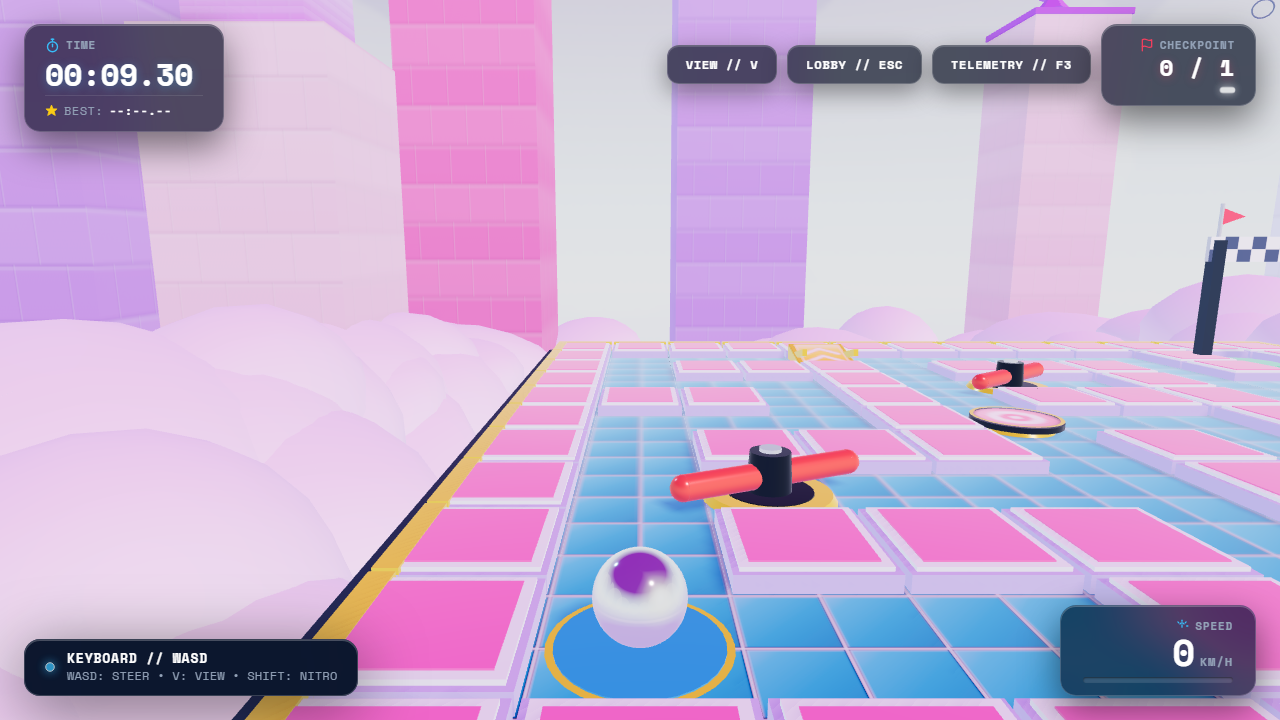
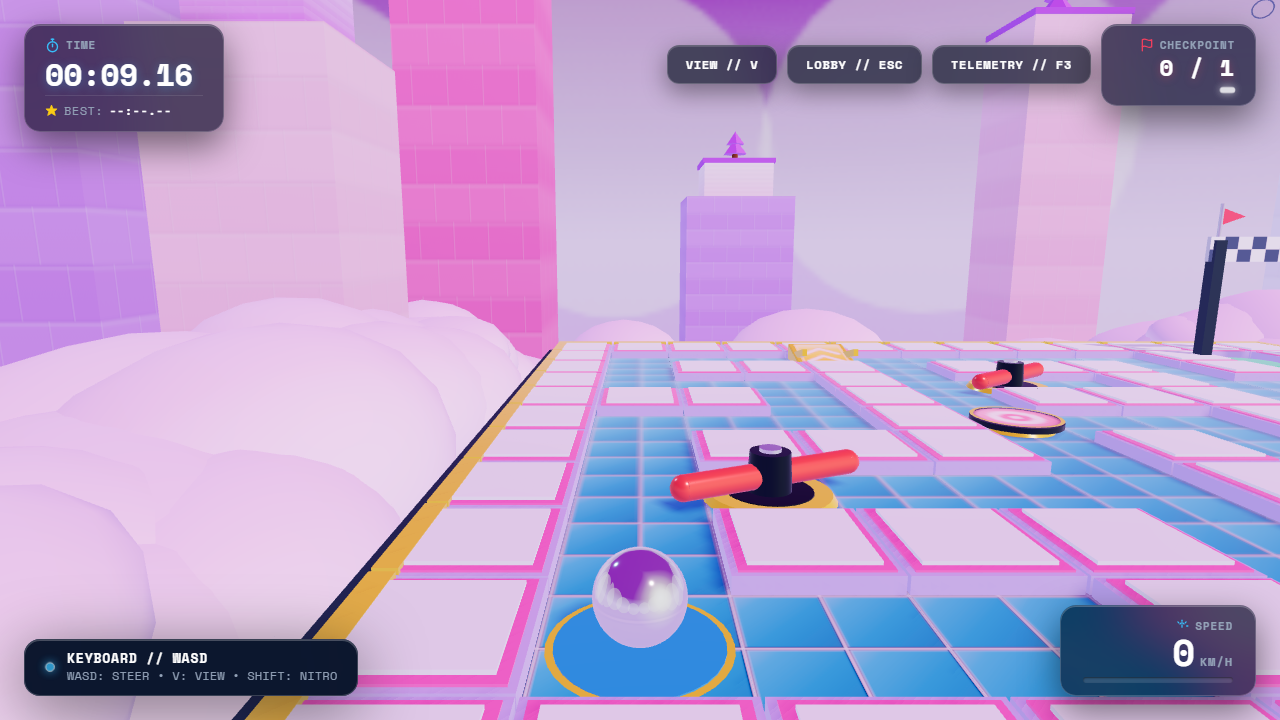
fix(visual): refine beveled curb layering, dynamic sky gradient, pillar disposal and true action views

diff --git a/game/src/world/Environment.ts b/game/src/world/Environment.ts
@@ -26,6 +26,8 @@ export class SkyEnvironment {
   private renderer: THREE.WebGLRenderer;
   private currentSkyTexture: THREE.Texture | null = null;
   private currentEnvTexture: THREE.Texture | null = null;
+  private pillarMaterials: THREE.Material[] = [];
+  private pillarTextures: THREE.Texture[] = [];
 
   constructor(scene: THREE.Scene, renderer: THREE.WebGLRenderer) {
     this.scene = scene;
@@ -281,34 +283,35 @@ export class SkyEnvironment {
    * and glowing window strips for night themes.
    */
   public rebuildPillars(theme: LevelTheme, isNight: boolean = false): void {
-    // 1. Clear and dispose old pillar hierarchy to prevent VRAM memory leaks
+    // 1. Clear and dispose old pillar textures and materials cleanly to prevent VRAM memory leaks
+    for (const t of this.pillarTextures) {
+      t.dispose();
+    }
+    this.pillarTextures = [];
+
+    for (const m of this.pillarMaterials) {
+      m.dispose();
+    }
+    this.pillarMaterials = [];
+
     while (this.pillarsGroup.children.length > 0) {
       const child = this.pillarsGroup.children[0];
       this.pillarsGroup.remove(child);
       child.traverse((node: any) => {
         if (node.geometry) node.geometry.dispose();
-        if (node.material) {
-          if (Array.isArray(node.material)) {
-            node.material.forEach((m: any) => {
-              if (m.map) m.map.dispose();
-              if (m.emissiveMap) m.emissiveMap.dispose();
-              m.dispose();
-            });
-          } else {
-            if (node.material.map) node.material.map.dispose();
-            if (node.material.emissiveMap) node.material.emissiveMap.dispose();
-            node.material.dispose();
-          }
-        }
       });
     }
 
     // 2. Prepare themed materials with procedural stone textures and window strips
     const palette = theme.pillarPalette || [0xfbcfe8, 0xbae6fd, 0xa7f3d0, 0xfef08a, 0xe2e8f0, 0xc7d2fe];
     const windowTex = isNight ? TextureGenerator.createPillarWindowTexture() : null;
+    if (windowTex) {
+      this.pillarTextures.push(windowTex);
+    }
 
     const pillarMatPool = palette.map((colHex) => {
       const stoneTex = TextureGenerator.createPillarTexture(colHex, isNight);
+      this.pillarTextures.push(stoneTex);
       const matParams: THREE.MeshStandardMaterialParameters = {
         map: stoneTex,
         roughness: isNight ? 0.45 : 0.6,
@@ -319,7 +322,9 @@ export class SkyEnvironment {
         matParams.emissiveMap = windowTex;
         matParams.emissiveIntensity = 1.6;
       }
-      return new THREE.MeshStandardMaterial(matParams);
+      const mat = new THREE.MeshStandardMaterial(matParams);
+      this.pillarMaterials.push(mat);
+      return mat;
     });
 
     const trunkMat = new THREE.MeshStandardMaterial({ color: 0x78350f, roughness: 0.8 });
@@ -329,6 +334,16 @@ export class SkyEnvironment {
     // Grass cap material for day themes
     const grassColor = theme.fogColor === 0xfecdd3 ? 0xca8a04 : theme.fogColor === 0xe9d5ff ? 0xa855f7 : 0x22c55e;
     const grassMat = new THREE.MeshStandardMaterial({ color: grassColor, roughness: 0.7, metalness: 0.05 });
+    this.pillarMaterials.push(trunkMat, foliageMat, grassMat);
+
+    const mastMat = isNight ? new THREE.MeshStandardMaterial({ color: 0x475569, metalness: 0.8, roughness: 0.2 }) : null;
+    const beaconMat = isNight ? new THREE.MeshStandardMaterial({
+      color: 0x00f5ff,
+      emissive: 0x00f5ff,
+      emissiveIntensity: 2.2,
+    }) : null;
+    if (mastMat) this.pillarMaterials.push(mastMat);
+    if (beaconMat) this.pillarMaterials.push(beaconMat);
 
     // 3. Multi-tier architectural pillar definitions with varied widths, depths, and heights
     const pillarDefs = [
@@ -340,7 +355,7 @@ export class SkyEnvironment {
       { x: 17, z: -32, w: 5.2, d: 5.2, h: 27, colorIdx: 0, hasTree: true, hasStep: false },
       { x: -30, z: -18, w: 7.5, d: 7.5, h: 32, colorIdx: 4, hasTree: true, hasStep: true },
       { x: 30, z: -4, w: 5.6, d: 5.6, h: 24, colorIdx: 1, hasTree: false, hasStep: false },
-      { x: 0, z: -42, w: 9.0, d: 9.0, h: 36, colorIdx: 4, hasTree: true, hasStep: true }, // Big stepped monolith behind finish
+      { x: 0, z: -42, w: 7.5, d: 7.5, h: 18, colorIdx: 4, hasTree: true, hasStep: true }, // Stepped monolith behind finish (lowered to leave sky clear)
       { x: -9, z: 24, w: 4.6, d: 4.6, h: 16, colorIdx: 5, hasTree: true, hasStep: false },
       { x: 13, z: 26, w: 4.2, d: 4.2, h: 15, colorIdx: 3, hasTree: false, hasStep: false },
       // Distant monoliths softly faded by fog
@@ -385,7 +400,7 @@ export class SkyEnvironment {
         // Low-poly Pine Tree on top
         if (p.hasTree) {
           const treeGroup = new THREE.Group();
-          treeGroup.position.set(p.x + (Math.random() - 0.5) * (p.w * 0.25), topY, p.z + (Math.random() - 0.5) * (p.d * 0.25));
+          treeGroup.position.set(p.x, topY, p.z);
 
           // Trunk
           const trunkGeo = new THREE.CylinderGeometry(0.2, 0.25, 0.8, 6);
@@ -409,19 +424,13 @@ export class SkyEnvironment {
         }
       } else {
         // Night theme: antenna mast & beacon on tall monoliths
-        if (p.hasTree || p.hasStep) {
+        if ((p.hasTree || p.hasStep) && mastMat && beaconMat) {
           const mastGeo = new THREE.CylinderGeometry(0.06, 0.08, 3.2, 8);
-          const mastMat = new THREE.MeshStandardMaterial({ color: 0x475569, metalness: 0.8, roughness: 0.2 });
           const mast = new THREE.Mesh(mastGeo, mastMat);
           mast.position.set(p.x, topY + 1.6, p.z);
           this.pillarsGroup.add(mast);
 
           const beaconGeo = new THREE.SphereGeometry(0.2, 12, 12);
-          const beaconMat = new THREE.MeshStandardMaterial({
-            color: 0x00f5ff,
-            emissive: 0x00f5ff,
-            emissiveIntensity: 2.2,
-          });
           const beacon = new THREE.Mesh(beaconGeo, beaconMat);
           beacon.position.set(p.x, topY + 3.2, p.z);
           this.pillarsGroup.add(beacon);
@@ -514,7 +523,7 @@ export class SkyEnvironment {
 
     this.hemiLight.color.setHex(theme.hemiSky);
     this.hemiLight.groundColor.setHex(theme.hemiGround);
-    this.hemiLight.intensity = isNight ? 0.6 : 0.85;
+    this.hemiLight.intensity = isNight ? 0.6 : 0.65;
 
     if (isNight) {
       this.rimLight.color.setHex(0x38bdf8);

diff --git a/game/src/world/Board.ts b/game/src/world/Board.ts
@@ -13,6 +13,7 @@ export class Board {
   private blueTileMat!: THREE.MeshStandardMaterial;
   private yellowCurbMat!: THREE.MeshStandardMaterial;
   private levelMaterials: THREE.Material[] = [];
+  private levelGeometries: THREE.BufferGeometry[] = [];
 
   constructor() {
     this.group = new THREE.Group();
@@ -39,7 +40,7 @@ export class Board {
 
   private disposeHierarchy(obj: THREE.Object3D): void {
     obj.traverse((node: any) => {
-      if (node.geometry) {
+      if (node.geometry && !this.levelGeometries.includes(node.geometry)) {
         node.geometry.dispose();
       }
       if (node.material) {
@@ -75,6 +76,10 @@ export class Board {
       m.dispose();
     }
     this.levelMaterials = [];
+    for (const g of this.levelGeometries) {
+      g.dispose();
+    }
+    this.levelGeometries = [];
     this.spinnerMeshes = [];
     this.goldenRings = [];
     this.bouncerGroups = [];
@@ -206,8 +211,15 @@ export class Board {
     this.levelMaterials.push(wallSideMat, wallTopMat, wallStripeMat);
 
     const baseH = 0.16;
-    const capH = 0.04;
-    const stripeH = 0.015;
+    const stripeShelfH = 0.02;
+    const topCapH = 0.035;
+    // Total visual curb height = 0.16 + 0.02 + 0.035 = 0.215m (43% of 0.50m collider)
+
+    // Reusable shared geometries for low curb barriers
+    const wallBaseGeo = new THREE.BoxGeometry(cellSize * 0.98, baseH, cellSize * 0.98);
+    const wallStripeGeo = new THREE.BoxGeometry(cellSize * 0.90, stripeShelfH, cellSize * 0.90);
+    const wallCapGeo = new THREE.BoxGeometry(cellSize * 0.78, topCapH, cellSize * 0.78);
+    this.levelGeometries.push(wallBaseGeo, wallStripeGeo, wallCapGeo);
 
     let spinnerCount = 0;
 
@@ -235,28 +247,26 @@ export class Board {
           const wallGroup = new THREE.Group();
           wallGroup.position.set(cx, 0, cz);
 
-          // Lower curb body
-          const baseGeo = new THREE.BoxGeometry(cellSize * 0.96, baseH, cellSize * 0.96);
-          const wallBase = new THREE.Mesh(baseGeo, wallSideMat);
+          // Lower curb body (sides)
+          const wallBase = new THREE.Mesh(wallBaseGeo, wallSideMat);
           wallBase.position.y = baseH / 2;
           wallBase.castShadow = true;
           wallBase.receiveShadow = true;
           wallGroup.add(wallBase);
 
-          // Slightly beveled upper cap (lighter than sides for top-down maze readability)
-          const capGeo = new THREE.BoxGeometry(cellSize * 0.88, capH, cellSize * 0.88);
-          const wallCap = new THREE.Mesh(capGeo, wallTopMat);
-          wallCap.position.y = baseH + capH / 2;
+          // Beveled perimeter shelf / stripe (bright top stripe / neon edge in L4)
+          const wallStripe = new THREE.Mesh(wallStripeGeo, wallStripeMat);
+          wallStripe.position.y = baseH + stripeShelfH / 2;
+          wallStripe.castShadow = true;
+          wallStripe.receiveShadow = true;
+          wallGroup.add(wallStripe);
+
+          // Top cap face (lighter than sides for top-down maze readability)
+          const wallCap = new THREE.Mesh(wallCapGeo, wallTopMat);
+          wallCap.position.y = baseH + stripeShelfH + topCapH / 2;
           wallCap.castShadow = true;
           wallCap.receiveShadow = true;
           wallGroup.add(wallCap);
-
-          // Bright top stripe (emissive neon glow in L4)
-          const stripeGeo = new THREE.BoxGeometry(cellSize * 0.76, stripeH, cellSize * 0.76);
-          const wallStripe = new THREE.Mesh(stripeGeo, wallStripeMat);
-          wallStripe.position.y = baseH + capH + stripeH / 2;
-          wallStripe.castShadow = true;
-          wallGroup.add(wallStripe);
 
           this.group.add(wallGroup);
         } else if (cell === 'S') {

diff --git a/game/src/world/TextureGenerator.ts b/game/src/world/TextureGenerator.ts
@@ -33,23 +33,30 @@ export class TextureGenerator {
     }
     const { canvas, ctx } = c;
 
+    const cTop = new THREE.Color(topColor);
+    const cBottom = new THREE.Color(bottomColor);
+
     // 1. Sky Gradient from zenith (y=0) down through horizon (y=256) to nadir (y=512)
     // Smooth continuous gradient stops with low contrast near the horizon to eliminate banding in reflections
     const skyGrad = ctx.createLinearGradient(0, 0, 0, 512);
     if (isNight) {
-      skyGrad.addColorStop(0.0, topColor);
-      skyGrad.addColorStop(0.35, '#080e1a');
-      skyGrad.addColorStop(0.50, '#0f172a');
-      skyGrad.addColorStop(0.70, '#0b1322');
-      skyGrad.addColorStop(1.0, bottomColor);
+      skyGrad.addColorStop(0.0, cTop.getStyle());
+      skyGrad.addColorStop(0.38, cTop.getStyle());
+      skyGrad.addColorStop(0.46, cTop.clone().lerp(cBottom, 0.45).getStyle());
+      skyGrad.addColorStop(0.50, cBottom.getStyle());
+      skyGrad.addColorStop(0.54, cBottom.clone().lerp(cTop, 0.20).getStyle());
+      skyGrad.addColorStop(0.72, cBottom.getStyle());
+      skyGrad.addColorStop(1.0, cBottom.getStyle());
     } else {
-      skyGrad.addColorStop(0.0, topColor);
-      skyGrad.addColorStop(0.30, topColor);
-      // Soft, low-contrast transition at horizon (y=256, stop 0.50)
-      skyGrad.addColorStop(0.48, '#bfdbfe');
-      skyGrad.addColorStop(0.52, '#dbeafe');
-      skyGrad.addColorStop(0.75, bottomColor);
-      skyGrad.addColorStop(1.0, bottomColor);
+      // Zenith blue extends down to 0.38 so the camera's upper elevation (+22 deg) captures vivid sky color
+      skyGrad.addColorStop(0.0, cTop.getStyle());
+      skyGrad.addColorStop(0.38, cTop.getStyle());
+      // Smooth, soft transition into horizon haze (stop 0.50 = horizon y=256)
+      skyGrad.addColorStop(0.46, cTop.clone().lerp(cBottom, 0.40).getStyle());
+      skyGrad.addColorStop(0.50, cBottom.getStyle());
+      skyGrad.addColorStop(0.54, cBottom.clone().lerp(cTop, 0.15).getStyle());
+      skyGrad.addColorStop(0.72, cBottom.getStyle());
+      skyGrad.addColorStop(1.0, cBottom.getStyle());
     }
     ctx.fillStyle = skyGrad;
     ctx.fillRect(0, 0, 1024, 512);
@@ -449,15 +456,15 @@ export class TextureGenerator {
       ctx.fillRect(0, y, 256, bandHeight);
 
       // Horizontal mortar seam groove
-      ctx.strokeStyle = isNight ? 'rgba(0, 0, 0, 0.5)' : 'rgba(0, 0, 0, 0.16)';
-      ctx.lineWidth = 2;
+      ctx.strokeStyle = isNight ? 'rgba(0, 0, 0, 0.45)' : 'rgba(0, 0, 0, 0.09)';
+      ctx.lineWidth = 1.5;
       ctx.beginPath();
       ctx.moveTo(0, y);
       ctx.lineTo(256, y);
       ctx.stroke();
 
       // Sunlit edge highlight below groove
-      ctx.strokeStyle = isNight ? 'rgba(255, 255, 255, 0.05)' : 'rgba(255, 255, 255, 0.22)';
+      ctx.strokeStyle = isNight ? 'rgba(255, 255, 255, 0.05)' : 'rgba(255, 255, 255, 0.18)';
       ctx.lineWidth = 1;
       ctx.beginPath();
       ctx.moveTo(0, y + 2);
@@ -471,8 +478,8 @@ export class TextureGenerator {
       const rowIdx = y / bandHeight;
       const xOffset = (rowIdx % 2) * (blockWidth / 2);
       for (let x = xOffset; x < 256; x += blockWidth) {
-        ctx.strokeStyle = isNight ? 'rgba(0, 0, 0, 0.45)' : 'rgba(0, 0, 0, 0.14)';
-        ctx.lineWidth = 1.5;
+        ctx.strokeStyle = isNight ? 'rgba(0, 0, 0, 0.40)' : 'rgba(0, 0, 0, 0.08)';
+        ctx.lineWidth = 1.2;
         ctx.beginPath();
         ctx.moveTo(x, y);
         ctx.lineTo(x, y + bandHeight);

diff --git a/game/src/main.ts b/game/src/main.ts
@@ -24,21 +24,21 @@ export const GAME_FEEL_CONFIG = {
 
 class GameApp {
   // Three.js
-  private scene!: THREE.Scene;
-  private camera!: THREE.PerspectiveCamera;
-  private renderer!: THREE.WebGLRenderer;
-  private environment!: SkyEnvironment;
+  public scene!: THREE.Scene;
+  public camera!: THREE.PerspectiveCamera;
+  public renderer!: THREE.WebGLRenderer;
+  public environment!: SkyEnvironment;
 
   // Follow Camera (Bruno Simon Lerp Target Formula - Preallocated for zero per-frame garbage)
-  private cameraPosition = new THREE.Vector3();
-  private cameraTarget = new THREE.Vector3();
+  public cameraPosition = new THREE.Vector3();
+  public cameraTarget = new THREE.Vector3();
   private targetCamPos = new THREE.Vector3();
   private targetCamTarget = new THREE.Vector3();
 
   // Game Systems
-  private physics!: PhysicsWorld;
-  private board!: Board;
-  private marble!: Marble;
+  public physics!: PhysicsWorld;
+  public board!: Board;
+  public marble!: Marble;
   private effectsManager!: EffectsManager;
   private sounds!: SoundSynthesizer;
   private keyboard!: KeyboardController;
@@ -549,5 +549,7 @@ class GameApp {
 
 // Bootstrap application on page load
 window.addEventListener('DOMContentLoaded', () => {
-  new GameApp();
+  const app = new GameApp();
+  (window as any).game = app;
+  (window as any).gameApp = app;
 });

diff --git a/game/src/levels/LevelData.ts b/game/src/levels/LevelData.ts
@@ -142,7 +142,7 @@ export const LEVELS: LevelDef[] = [
       wallStripeColor: 0xfbbf24, // Bright warm golden top stripe
       wallStripeEmissive: 0xd97706,
       wallStripeEmissiveIntensity: 0.2,
-      pillarPalette: [0xc2410c, 0xfef3c7, 0xea580c, 0xfde68a, 0xd97736, 0xf5d0a9],
+      pillarPalette: [0xdf9b77, 0xfef3c7, 0xcc7a52, 0xfde68a, 0xd48b65, 0xf5d0a9],
     },
   },
   {
@@ -221,7 +221,7 @@ export const LEVELS: LevelDef[] = [
       wallTopColor: 0x1e293b, // Slate-navy top face (lighter than sides)
       wallStripeColor: 0x06b6d4, // Strong cyan top edge line
       wallStripeEmissive: 0x00f5ff, // Emissive cyan neon glow
-      wallStripeEmissiveIntensity: 1.8,
+      wallStripeEmissiveIntensity: 1.35,
       pillarPalette: [0x1e293b, 0x334155, 0x0f172a, 0x273549, 0x475569, 0x1e3a8a],
     },
   },
